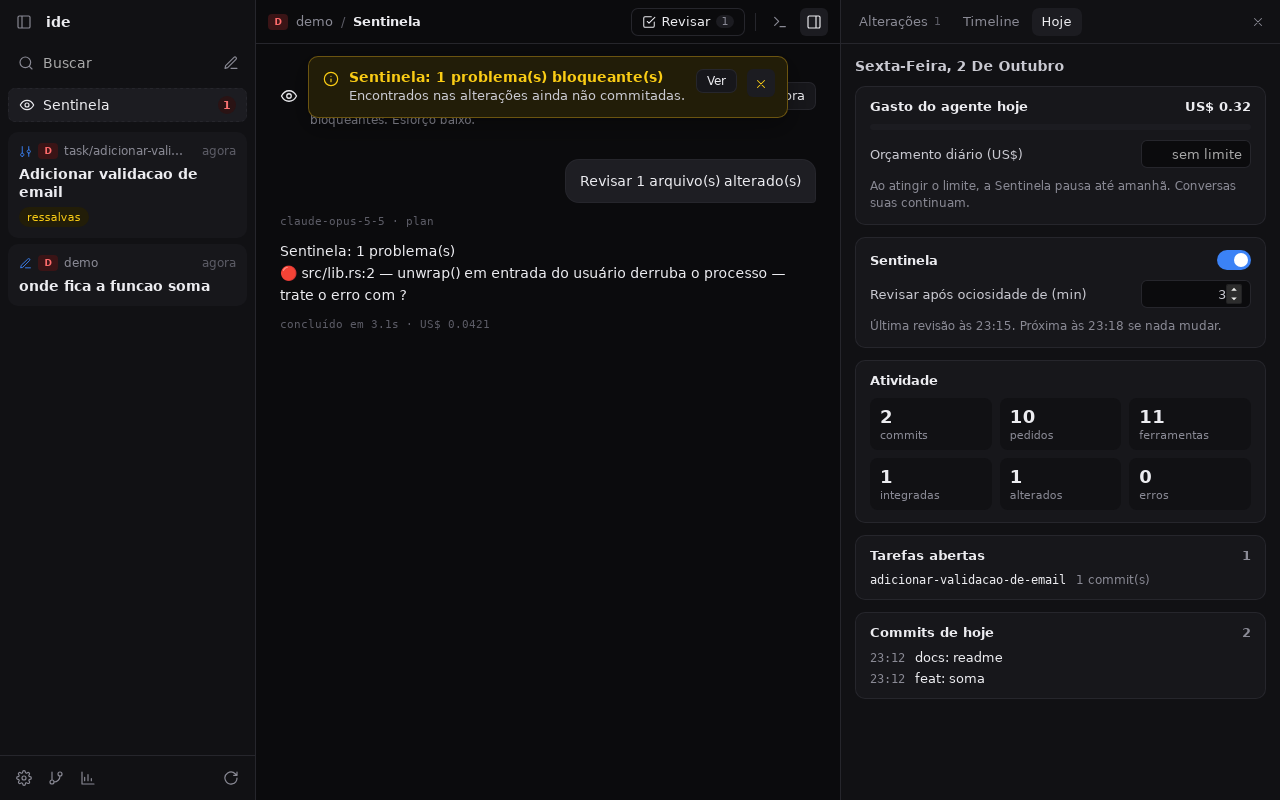
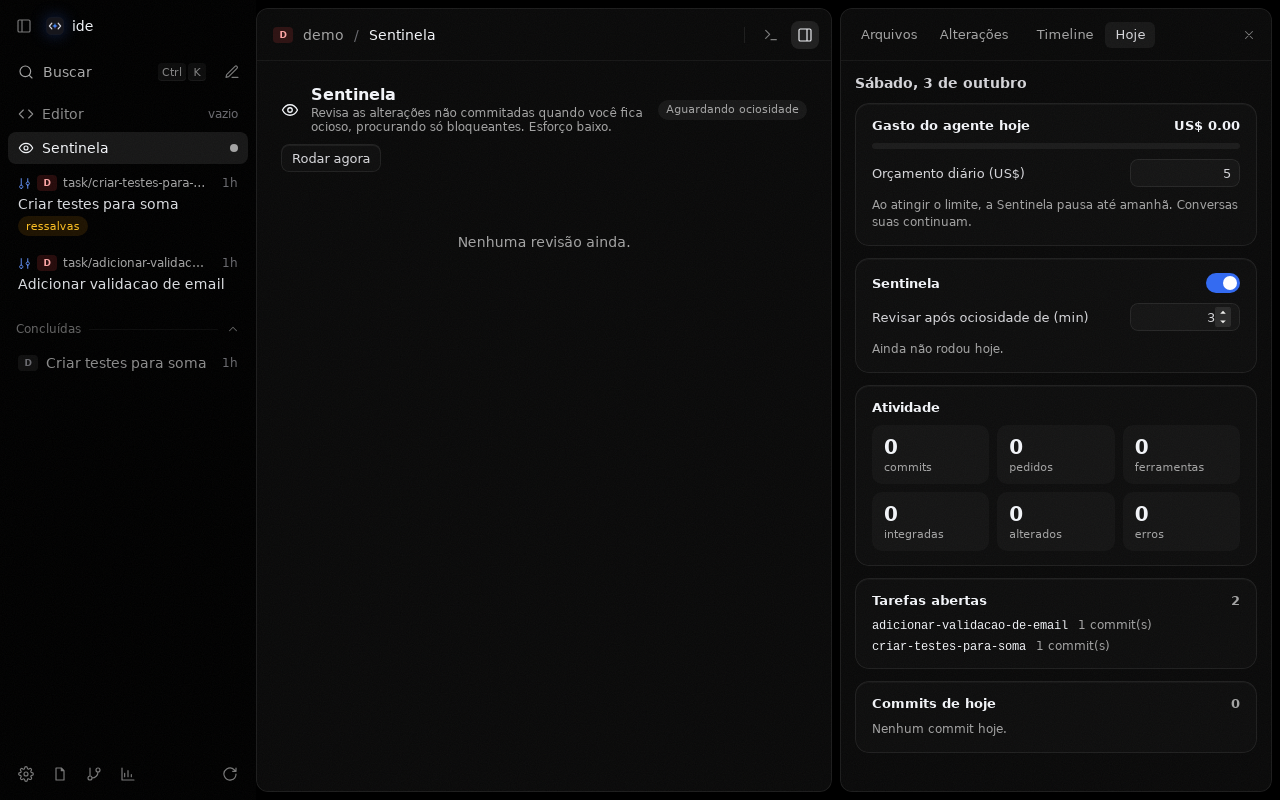
docs: documentar a fase 5 com a adr 0005 e telas novas
ADR 0005 (tokens do T3 Code, card inset, vidro só no que flutua,
paleta e atalhos, decisões de layout com o painel aberto), roadmap
com a fase 5, arquitetura da UI e README com o tema e os atalhos.
Telas refeitas no visual novo, mais a da paleta; sai a imagem antiga
que não era usada.

Claude-Session: https://claude.ai/code/session_01Ag7BhT17Ph4mGoDXFdyhVD

diff --git a/.project/decisions/0005-fase-5-interface-preta-e-paleta.md b/.project/decisions/0005-fase-5-interface-preta-e-paleta.md
@@ -1,0 +1,49 @@
+# 0005 — Fase 5: interface preta moderna (referência T3 Code) e paleta de comandos
+
+- Status: aceita
+- Data: 2026-10-03
+
+## Contexto
+
+O roadmap terminava na Fase 4; a interface já seguia o T3 Code em estrutura (threads,
+composer, painel), mas com cinzas próprios, cartões elevados e só navegação por mouse.
+Pedido: um "preto moderno" e modernidade no layout todo, lendo o próprio T3 Code
+(`pingdotgg/t3code`, app web em React + Tailwind 4).
+
+## Decisão
+
+- **Tokens copiados do tema escuro do T3 Code** (`apps/web/src/index.css`), em CSS puro:
+  corpo e barra lateral `#000`; área principal `#0a0a0a` (neutral-950); bordas e estados
+  por transparência de branco (borda 8%, hover 6%, ativo 9%) em vez de cinzas sólidos;
+  azul primário `oklch(0.571 0.21 264)` ≈ `#346bf1`; fontes do sistema.
+- **Card principal "inset"**: área principal e painel lateral flutuam sobre o corpo preto
+  com 8px de respiro, cantos de 12px e textura grain (SVG `feTurbulence`, 3,5%) — como o
+  `SidebarInset` do T3.
+- **Vidro só em superfícies flutuantes** (composer, avisos, paleta): fundo translúcido +
+  `backdrop-filter`. A opacidade fica alta (92–96%) porque o WebKitGTK sem composição
+  ignora o blur; sem ele o texto de trás não pode competir.
+- **Componentes no idioma do T3**: linhas de thread sem cartão; abas em pílula; botões
+  "outline" com brilho interno de 1px; bolha só na mensagem do usuário; ferramentas como
+  linhas de um registro de trabalho (sem caixa); texto "trabalhando" com brilho animado;
+  composer de 22px com a faixa de contexto presa por baixo; barra de 52px.
+- **Movimento contido**: `cubic-bezier(0.32, 0.72, 0, 1)` para o que entra (painel,
+  terminal, mensagens, paleta); `prefers-reduced-motion` desliga tudo.
+- **Paleta de comandos** (`Ctrl+K`; `Ctrl+P` só arquivos) com busca aproximada local
+  (`lib/fuzzy.ts`: letras em ordem, bônus para início de palavra e sequência, corte de
+  casamentos espalhados). Atalhos globais em captura (`Ctrl+N` nova thread, `Ctrl+B`
+  barra lateral, `Ctrl+J` terminal), antes do Monaco. Com o foco no terminal eles não
+  valem: lá essas teclas são do readline do shell (cursor, histórico, apagar linha).
+- **Layout responsivo ao painel**: com a área principal estreita, os botões da barra viram
+  só ícone (container query) e o editor esconde a estrutura. A estrutura é decidida em JS
+  (`ResizeObserver`): mudança vinda de container query não reacende o layout do Monaco
+  no WebKitGTK.
+
+## Consequências
+
+- ✅ Visual coeso com a referência: preto profundo, hierarquia por bordas sutis, foco no
+  conteúdo; Monaco e terminal no mesmo preto.
+- ✅ Tudo alcançável pelo teclado; abrir arquivo ou trocar de thread sem mouse.
+- ❌ `Ctrl+K` substitui os acordes `Ctrl+K …` do Monaco (comentar continua em `Ctrl+/`).
+- ❌ Só tema escuro (como antes). Um tema claro exigiria duplicar os tokens.
+- ❌ Sem Tailwind: os valores do T3 foram traduzidos à mão; mudanças futuras lá não chegam
+  sozinhas.

diff --git a/README.md b/README.md
@@ -12,9 +12,16 @@ Visão completa e fases em [`docs/ROADMAP.md`](docs/ROADMAP.md).
 | | |
 |---|---|
 | ![Thread em worktree com revisão automática](docs/images/thread-worktree.png) | ![Sentinela e resumo do dia](docs/images/sentinela-hoje.png) |
-| ![Editor com diagnósticos do rust-analyzer](docs/images/editor.png) | ![Hover e outline no editor](docs/images/editor-hover.png) |
+| ![Editor com diagnósticos do rust-analyzer](docs/images/editor.png) | ![Hover com o erro do compilador](docs/images/editor-hover.png) |
+| ![Paleta de comandos (Ctrl+K) achando thread e arquivo](docs/images/paleta.png) | |
 
-Interface centrada em **threads** (estilo T3 Code, tema escuro):
+Interface centrada em **threads**, em **preto moderno** com a linguagem visual do T3 Code
+(Fase 5, ADR 0005): corpo e barra lateral em preto puro, a área principal como um card
+inset com textura sutil, superfícies flutuantes de vidro e estados por transparência.
+
+- **Paleta de comandos** (`Ctrl+K`): ações, threads e arquivos com busca aproximada;
+  `Ctrl+P` abre direto a busca de arquivos. Atalhos: `Ctrl+N` nova thread, `Ctrl+B` barra
+  lateral, `Ctrl+J` terminal, `Ctrl+S` salvar no editor.
 
 - **Uma lista de threads** para tudo: conversas no checkout atual e tarefas autônomas em
   worktree, com busca, idade, selos (trabalhando, aguarda você, veredito da revisão) e

diff --git a/.project/architecture/monorepo.md b/.project/architecture/monorepo.md
@@ -71,7 +71,9 @@ Ferramentas do agente (ADR 0004)
 ## UI (apps/desktop/src)
 
 ```text
-App.tsx            Workspace: grid sidebar | main (topbar, avisos, thread, terminal) | painel
+App.tsx            Workspace: grid sidebar | main (topbar, avisos, thread, terminal) | painel;
+                   atalhos globais (Ctrl+K/P/N/B/J) e as ações da paleta
+styles.css         tokens do tema preto (ADR 0005); main e painel são cards `.surface`
 lib/agent.ts       store das conversas + sessão do SDK; `revision` reativa para persistir
 lib/threads.ts     threads por projeto no localStorage (sem apagar as de outros projetos)
 lib/tasks.ts       thread em worktree, revisão de tarefa e do working tree
@@ -79,8 +81,9 @@ lib/sentinel.ts    agente em background (ociosidade → revisão leve; respeita 
 lib/banners.ts     avisos no topo
 lib/editor.ts      abas abertas, salvar, markers e providers LSP do Monaco
 lib/monaco.ts      workers, tema e linguagens do Monaco
+lib/fuzzy.ts       busca aproximada da paleta de comandos
 components/        Sidebar, TopBar, ThreadView (+ SentinelView), Composer, ChatItem,
-                   EditorView, FilesPanel,
+                   EditorView, FilesPanel, CommandPalette (Ctrl+K / Ctrl+P),
                    RightPanel (DiffPanel, FilesPanel, TimelinePanel, TodayPanel), Banners, Terminal
 ```
 

diff --git a/docs/ROADMAP.md b/docs/ROADMAP.md
@@ -25,7 +25,7 @@ Tauri 2 (Rust)                         Sidecar Node (Claude Agent SDK)
 ├── Timeline (SQLite)
 └── MCP server  ──────────────────────► tools expostas ao agente
         │
-SolidJS UI: threads · editor Monaco · diff · terminal · timeline
+SolidJS UI: threads · editor Monaco · diff · terminal · timeline · paleta (Ctrl+K)
 ```
 
 ## Módulos
@@ -106,5 +106,6 @@ SolidJS UI: threads · editor Monaco · diff · terminal · timeline
 | 2 | Worktree por tarefa na UI, autonomia total em worktree, pipeline de revisão, sidecar no instalador | ✅ (Node embutido e sandbox de SO ficam para depois) |
 | 3 | Monaco, LSP, tree-sitter como tools MCP | ✅ editor com hover/definição/diagnósticos, `ide-mcp` para o agente (ADR 0004); autocompletar e rename depois |
 | 4 | Background agent, daily brief, debugger, embeddings | ✅ Sentinela, resumo do dia e orçamento; debugger e embeddings adiados (ADR 0003) |
+| 5 | Interface moderna: tema preto (referência T3 Code), layout inset, paleta de comandos e atalhos | ✅ (ADR 0005) |
 
 A Fase 0 existe para descobrir, usando no dia a dia, o que a Fase 1 realmente precisa ter.
